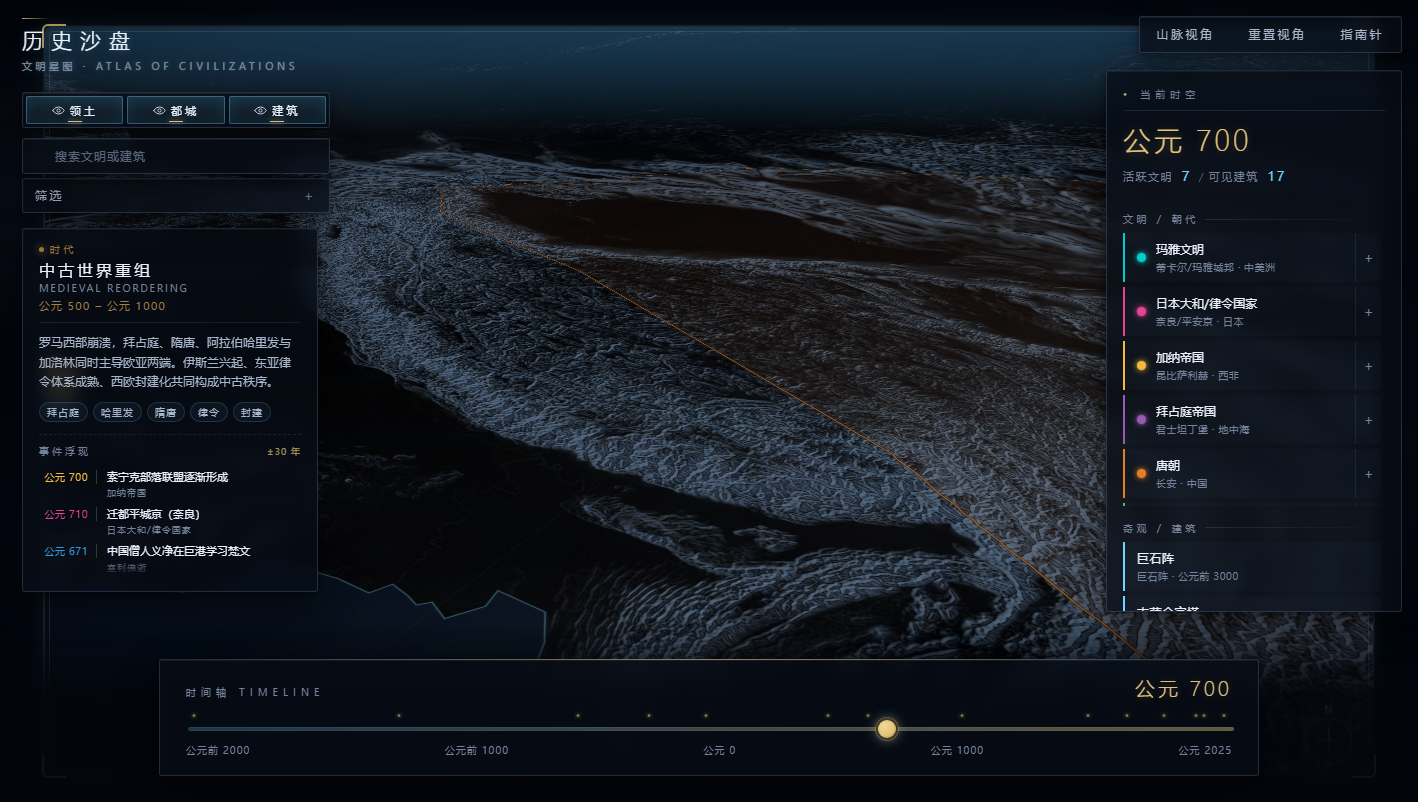
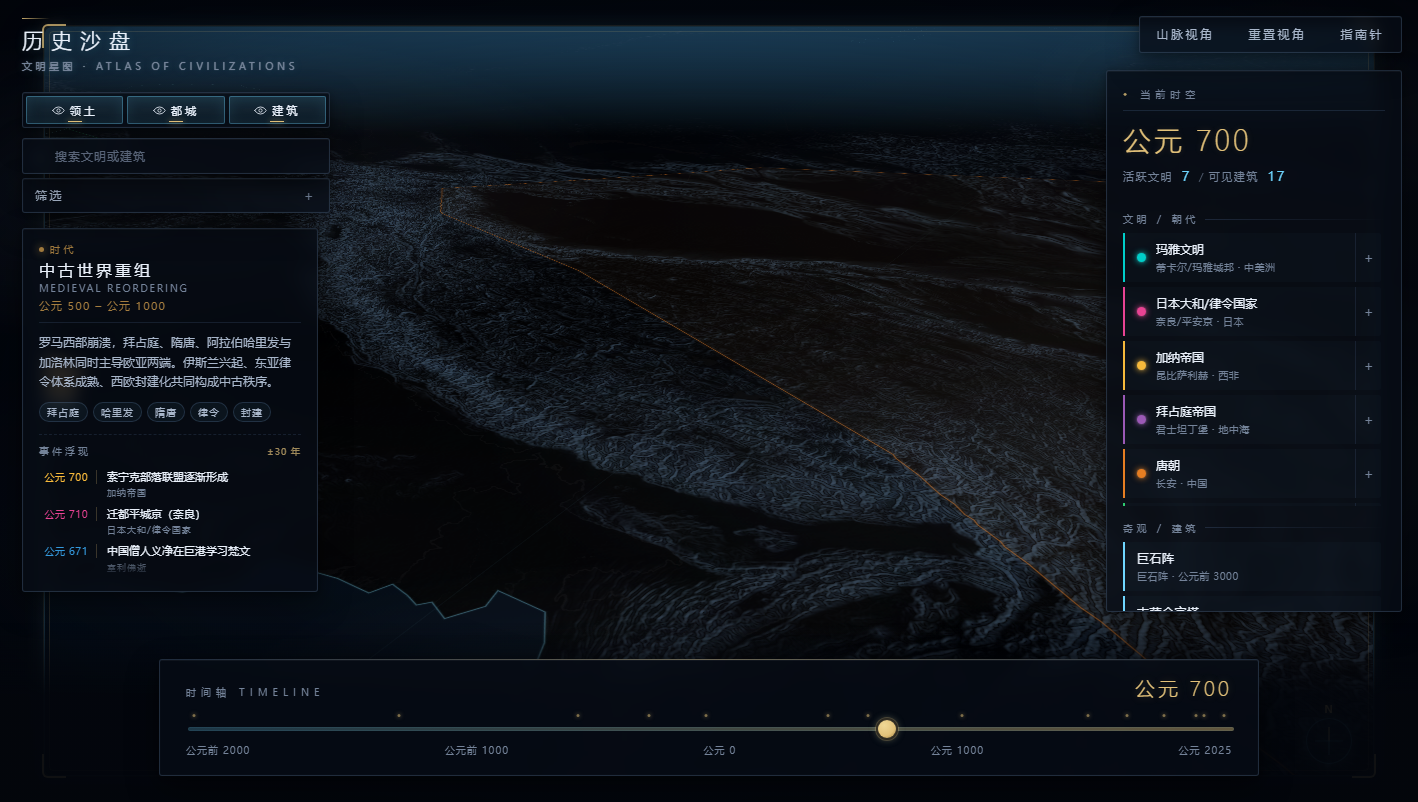
style(map): reduce visual noise for F1 pass

Changed region(s): [[0.2172, 0.1559, 0.8378, 0.8416], [0.8999, 0.7793, 0.9309, 0.8105]]

diff --git a/src/map/mapStyle.js b/src/map/mapStyle.js
@@ -313,25 +313,25 @@ export const THEME_PRESETS = {
     illuminationDirection: 315,
     // 深邃夜海：近黑藏蓝、全不透明盖掉海底浮雕——海越深越暗，让大陆从中浮起。
     // （黑色大理石夜地球：海近黑、陆稍亮的冷灰，全程冷调，靠明度差分离而非换色。）
-    ocean: '#050d18',
+    ocean: '#030a13',
     oceanMaskOpacity: 1,
     // 陆地不另铺色：保持冷调basemap本身，靠"陆比海亮 + 浮雕 + 发光海岸"刻清晰。
     landFillOpacity: 0,
     // 月光夜景浮雕：随 zoom 渐强的真实地势（世界视角已有体积感，区域视角山脉清晰）。
     // 强度对标 atlas，但走冷调，营造"地球夜景被冷月光斜照"的游戏级体积感。
-    hillshadeExaggeration: ['interpolate', ['linear'], ['zoom'], 2, 0.45, 4, 0.85, 6, 1.1],
+    hillshadeExaggeration: ['interpolate', ['linear'], ['zoom'], 2, 0.35, 4, 0.62, 6, 0.82],
     hillshade: {
       // 深蓝阴影 + 冷月光高光（青白）+ 冷青墨重音：让山脊一侧受光、一侧没入深蓝
-      shadow: 'rgba(1, 5, 14, 0.72)',
-      highlight: 'rgba(168, 205, 240, 0.58)',
-      accent: 'rgba(70, 110, 150, 0.42)',
+      shadow: 'rgba(2, 8, 18, 0.56)',
+      highlight: 'rgba(148, 190, 230, 0.42)',
+      accent: 'rgba(55, 95, 135, 0.30)',
     },
     // 第二层副光 hillshade（东南向、低强度冷调）：柔化硬阴影，增加多向体积层次
     hillshadeFill: {
-      exaggeration: ['interpolate', ['linear'], ['zoom'], 2, 0.3, 4, 0.5, 6, 0.65],
-      shadow: 'rgba(2, 10, 24, 0.26)',
-      highlight: 'rgba(190, 220, 250, 0.18)',
-      accent: 'rgba(60, 95, 135, 0.16)',
+      exaggeration: ['interpolate', ['linear'], ['zoom'], 2, 0.22, 4, 0.35, 6, 0.48],
+      shadow: 'rgba(2, 10, 24, 0.18)',
+      highlight: 'rgba(180, 210, 245, 0.12)',
+      accent: 'rgba(55, 85, 125, 0.10)',
     },
     sky: {
       // 深空基调 + 地平线冷青大气辉光（俯仰时露出"地球边缘辉光"）
@@ -346,16 +346,15 @@ export const THEME_PRESETS = {
       // 星图风发光轮廓：去掉填充色块（fill 仅作隐形点击域 + 极淡发光薄膜，地形透出），
       // 文明＝明亮发光边界（实线清亮边 + 向内淡入的霓虹辉光晕）。多文明并存时靠收窄的
       // 辉光 + 高对比清亮边分离，不再糊成色块。详见 applyBoundaryPaint dark 分支。
-      // 「默认低调·聚焦高亮」：平时所有国家只留一条清亮细边 + 极弱内晕 + 几乎不上色，
-      // 避免多国并存时宽发光带互相晕染串色；hover / 选中由专属图层让那一国亮色+填充浮起。
-      glowOpacityRefined: 0.18,
-      glowOpacityPlain: 0.1,
-      lineOpacityRefined: 0.85,
-      lineOpacityPlain: 0.45,
+      // F1 去荧光：默认只留一条细窄清亮边 + 收紧内晕，多国并存时不串色；
+      // hover / 选中由专属图层把那一国亮色+填充浮起。
+      glowOpacityRefined: 0.075,
+      glowOpacityPlain: 0.035,
+      lineOpacityRefined: 0.56,
+      lineOpacityPlain: 0.24,
       lineDash: [1, 0],
-      // 默认填充压到几乎隐形（只留一丝区域感），聚焦时再由 hover/selected 填充层补足。
-      fillOpacityRefined: 0.05,
-      fillOpacityPlain: 0.035,
+      fillOpacityRefined: 0.032,
+      fillOpacityPlain: 0.018,
     },
   },
   atlas: {
@@ -430,14 +429,13 @@ export function applyBoundaryPaint(map, themeKey) {
       map.setPaintProperty('dynasty-territory-glow', 'line-width', ['case', isRefinedExpr, 5, 3]);
       map.setPaintProperty('dynasty-territory-glow', 'line-blur', 5);
     } else {
-      // dark 星图风：默认只留一道收窄的内晕（读作"领土点亮"的细边光），不再是宽发光带，
-      // 这样多国并存时不会互相晕染串色。真正的"亮起"交给 hover / selected 专属图层。
+      // F1 去荧光：收紧晕宽和 blur，多国并存时各文明边界不再互染成"开发图层荧光带"。
       map.setPaintProperty('dynasty-territory-glow', 'line-color', ['get', 'color']);
       map.setPaintProperty('dynasty-territory-glow', 'line-width', ['case', isRefinedExpr,
-        ['interpolate', ['linear'], ['zoom'], 2, 2, 5, 4.5],
-        ['interpolate', ['linear'], ['zoom'], 2, 1.3, 5, 2.6],
+        ['interpolate', ['linear'], ['zoom'], 2, 1.1, 5, 2.3],
+        ['interpolate', ['linear'], ['zoom'], 2, 0.6, 5, 1.2],
       ]);
-      map.setPaintProperty('dynasty-territory-glow', 'line-blur', 4);
+      map.setPaintProperty('dynasty-territory-glow', 'line-blur', 2.0);
     }
     map.setPaintProperty('dynasty-territory-glow', 'line-opacity', [
       'case', isRefinedExpr, preset.boundary.glowOpacityRefined, preset.boundary.glowOpacityPlain,
@@ -451,12 +449,12 @@ export function applyBoundaryPaint(map, themeKey) {
       map.setPaintProperty('dynasty-territory-casing', 'line-opacity', 0);
     } else {
       map.setPaintProperty('dynasty-territory-casing', 'line-color', '#03070e');
-      map.setPaintProperty('dynasty-territory-casing', 'line-blur', 0.4);
+      map.setPaintProperty('dynasty-territory-casing', 'line-blur', 0.3);
       map.setPaintProperty('dynasty-territory-casing', 'line-width', ['case', isRefinedExpr,
-        ['interpolate', ['linear'], ['zoom'], 2, 1.6, 5, 3.0],
-        ['interpolate', ['linear'], ['zoom'], 2, 1.1, 5, 2.0],
+        ['interpolate', ['linear'], ['zoom'], 2, 1.0, 5, 1.8],
+        ['interpolate', ['linear'], ['zoom'], 2, 0.6, 5, 1.1],
       ]);
-      map.setPaintProperty('dynasty-territory-casing', 'line-opacity', ['case', isRefinedExpr, 0.7, 0.45]);
+      map.setPaintProperty('dynasty-territory-casing', 'line-opacity', ['case', isRefinedExpr, 0.28, 0.16]);
     }
   }
 
@@ -469,12 +467,12 @@ export function applyBoundaryPaint(map, themeKey) {
         'case', isRefinedExpr, 1.6, 1.0,
       ]);
     } else {
-      // dark 星图风：清亮亮核线（像星座连线），细锐高对比，是版图主读法；随 zoom 加粗。
+      // F1 去荧光：保持星图风细亮边，但收窄核线宽度避免多国串色。
       map.setPaintProperty('dynasty-territory-line', 'line-color', ['get', 'color']);
       map.setPaintProperty('dynasty-territory-line', 'line-blur', 0.25);
       map.setPaintProperty('dynasty-territory-line', 'line-width', ['case', isRefinedExpr,
-        ['interpolate', ['linear'], ['zoom'], 2, 1.0, 5, 2.2],
-        ['interpolate', ['linear'], ['zoom'], 2, 0.6, 5, 1.3],
+        ['interpolate', ['linear'], ['zoom'], 2, 0.65, 5, 1.5],
+        ['interpolate', ['linear'], ['zoom'], 2, 0.4, 5, 0.8],
       ]);
     }
     map.setPaintProperty('dynasty-territory-line', 'line-opacity', [
@@ -491,10 +489,10 @@ export function applyBoundaryPaint(map, themeKey) {
     map.setPaintProperty('dynasty-capital-core', 'circle-stroke-width', isAtlas ? 1.2 : 0.7);
   }
   if (map.getLayer('dynasty-capital-glow')) {
-    // dark：暖金 bloom，像点亮的城市灯火；atlas：朱砂淡晕，几乎不发光
+    // dark：暖金 bloom 收紧 blur，读作精准城市灯火而非模糊光斑
     map.setPaintProperty('dynasty-capital-glow', 'circle-color', isAtlas ? '#b3201b' : '#ffcf7a');
-    map.setPaintProperty('dynasty-capital-glow', 'circle-opacity', isAtlas ? 0.18 : 0.3);
-    map.setPaintProperty('dynasty-capital-glow', 'circle-blur', isAtlas ? 0.3 : 1.3);
+    map.setPaintProperty('dynasty-capital-glow', 'circle-opacity', isAtlas ? 0.18 : 0.22);
+    map.setPaintProperty('dynasty-capital-glow', 'circle-blur', isAtlas ? 0.3 : 0.9);
   }
   if (map.getLayer('dynasty-capital-label')) {
     // 都城名标注仅深色显示（atlas 冻结隐藏）——沿用 graticule 的 opacity=0 手法，

diff --git a/src/components/MapScene.jsx b/src/components/MapScene.jsx
@@ -152,26 +152,26 @@ function applyBoundaryFocusPaint(map, theme, selectedId, hoveredId, compareIds) 
   if (map.getLayer('dynasty-territory-fill')) {
     map.setPaintProperty('dynasty-territory-fill', 'fill-opacity', boundaryOpacityExpression({
       focusIds,
-      refined: atlas ? 0.08 : 0.12,
-      plain: atlas ? 0.04 : 0.06,
-      mutedRefined: atlas ? 0.016 : 0.018,
+      refined: atlas ? 0.08 : 0.10,
+      plain: atlas ? 0.04 : 0.042,
+      mutedRefined: atlas ? 0.016 : 0.014,
       mutedPlain: atlas ? 0.01 : 0.01,
     }));
   }
   if (map.getLayer('dynasty-territory-glow')) {
     map.setPaintProperty('dynasty-territory-glow', 'line-opacity', boundaryOpacityExpression({
       focusIds,
-      refined: atlas ? 0.34 : 0.52,
-      plain: atlas ? 0.16 : 0.24,
-      mutedRefined: atlas ? 0.035 : 0.055,
-      mutedPlain: atlas ? 0.02 : 0.025,
+      refined: atlas ? 0.34 : 0.30,
+      plain: atlas ? 0.16 : 0.13,
+      mutedRefined: atlas ? 0.035 : 0.032,
+      mutedPlain: atlas ? 0.02 : 0.018,
     }));
   }
   if (map.getLayer('dynasty-territory-casing')) {
     map.setPaintProperty('dynasty-territory-casing', 'line-opacity', boundaryOpacityExpression({
       focusIds,
-      refined: atlas ? 0 : 0.72,
-      plain: atlas ? 0 : 0.46,
+      refined: atlas ? 0 : 0.28,
+      plain: atlas ? 0 : 0.18,
       mutedRefined: 0,
       mutedPlain: 0,
     }));
@@ -179,17 +179,17 @@ function applyBoundaryFocusPaint(map, theme, selectedId, hoveredId, compareIds) 
   if (map.getLayer('dynasty-territory-line')) {
     map.setPaintProperty('dynasty-territory-line', 'line-opacity', boundaryOpacityExpression({
       focusIds,
-      refined: atlas ? 0.94 : 0.86,
-      plain: atlas ? 0.55 : 0.42,
-      mutedRefined: atlas ? 0.11 : 0.12,
-      mutedPlain: atlas ? 0.055 : 0.055,
+      refined: atlas ? 0.94 : 0.62,
+      plain: atlas ? 0.55 : 0.28,
+      mutedRefined: atlas ? 0.11 : 0.075,
+      mutedPlain: atlas ? 0.055 : 0.034,
     }));
   }
   if (map.getLayer('dynasty-capital-glow')) {
-    map.setPaintProperty('dynasty-capital-glow', 'circle-opacity', focusCaseExpression(focusIds, atlas ? 0.2 : 0.34, atlas ? 0.035 : 0.045));
+    map.setPaintProperty('dynasty-capital-glow', 'circle-opacity', focusCaseExpression(focusIds, atlas ? 0.2 : 0.28, atlas ? 0.035 : 0.04));
   }
   if (map.getLayer('dynasty-capital-core')) {
-    map.setPaintProperty('dynasty-capital-core', 'circle-opacity', focusCaseExpression(focusIds, atlas ? 0.92 : 0.94, atlas ? 0.16 : 0.14));
+    map.setPaintProperty('dynasty-capital-core', 'circle-opacity', focusCaseExpression(focusIds, atlas ? 0.92 : 0.92, atlas ? 0.16 : 0.13));
   }
   if (map.getLayer('dynasty-capital-label')) {
     map.setPaintProperty('dynasty-capital-label', 'text-opacity', focusCaseExpression(focusIds, textBase, atlas ? 0 : 0.08));
@@ -348,16 +348,16 @@ const MapScene = forwardRef(function MapScene({
       map.setPaintProperty('dynasty-territory-fill', 'fill-opacity', 0.018);
     }
     if (map.getLayer('dynasty-territory-glow')) {
-      map.setPaintProperty('dynasty-territory-glow', 'line-opacity', 0.10);
-      map.setPaintProperty('dynasty-territory-glow', 'line-width', 2.0);
-      map.setPaintProperty('dynasty-territory-glow', 'line-blur', 3.2);
+      map.setPaintProperty('dynasty-territory-glow', 'line-opacity', 0.07);
+      map.setPaintProperty('dynasty-territory-glow', 'line-width', 1.6);
+      map.setPaintProperty('dynasty-territory-glow', 'line-blur', 2.4);
     }
     if (map.getLayer('dynasty-territory-casing')) {
-      map.setPaintProperty('dynasty-territory-casing', 'line-opacity', 0.18);
+      map.setPaintProperty('dynasty-territory-casing', 'line-opacity', 0.13);
     }
     if (map.getLayer('dynasty-territory-line')) {
-      map.setPaintProperty('dynasty-territory-line', 'line-opacity', 0.24);
-      map.setPaintProperty('dynasty-territory-line', 'line-width', 0.9);
+      map.setPaintProperty('dynasty-territory-line', 'line-opacity', 0.18);
+      map.setPaintProperty('dynasty-territory-line', 'line-width', 0.75);
     }
     if (map.getLayer('dynasty-capital-glow')) {
       map.setPaintProperty('dynasty-capital-glow', 'circle-opacity', 0.08);

diff --git a/src/styles.css b/src/styles.css
@@ -12,9 +12,9 @@
   --gold: #e3c27a;
   --gold-soft: rgba(227, 194, 122, 0.16);
   --hud-shadow:
-    0 14px 38px rgba(0, 0, 0, 0.48),
-    0 3px 10px rgba(0, 0, 0, 0.36),
-    inset 0 1px 0 rgba(255, 255, 255, 0.055),
+    0 12px 32px rgba(0, 0, 0, 0.42),
+    0 2px 8px rgba(0, 0, 0, 0.30),
+    inset 0 1px 0 rgba(255, 255, 255, 0.04),
     inset 0 0 0 1px rgba(255, 255, 255, 0.012);
   /* 统一动效：入场/过渡共用同一条"收尾减速"曲线与一组时长，手感一致 */
   --ease-out: cubic-bezier(0.2, 0.7, 0.2, 1);
@@ -619,7 +619,7 @@ body[data-theme="dark"] .map-frame::before {
   right: 14px;
   height: 1px;
   background: linear-gradient(90deg, transparent, var(--gold), transparent);
-  opacity: 0.55;
+  opacity: 0.38;
 }
 
 .info-status-bar {
@@ -651,7 +651,7 @@ body[data-theme="dark"] .map-frame::before {
   color: var(--gold);
   letter-spacing: 3px;
   margin-bottom: 8px;
-  text-shadow: 0 0 10px rgba(227, 194, 122, 0.32);
+  text-shadow: 0 0 6px rgba(227, 194, 122, 0.22);
   font-weight: 300;
 }
 
@@ -855,7 +855,7 @@ body[data-theme="dark"] .map-frame::before {
   right: 24px;
   height: 1px;
   background: linear-gradient(90deg, transparent, var(--gold), transparent);
-  opacity: 0.55;
+  opacity: 0.38;
 }
 
 .timeline-header {
@@ -896,7 +896,7 @@ input[type="range"]::-webkit-slider-thumb {
   border-radius: 50%;
   background: radial-gradient(circle at 35% 30%, #f0d896, var(--gold) 60%, #a48142 100%);
   cursor: pointer;
-  box-shadow: 0 0 12px rgba(227, 194, 122, 0.75), 0 0 0 2px rgba(3, 6, 12, 0.85), 0 0 0 3px rgba(227, 194, 122, 0.28), 0 0 18px 4px rgba(111, 214, 255, 0.12);
+  box-shadow: 0 0 8px rgba(227, 194, 122, 0.55), 0 0 0 2px rgba(3, 6, 12, 0.85), 0 0 0 3px rgba(227, 194, 122, 0.22), 0 0 10px 3px rgba(111, 214, 255, 0.08);
   border: 0;
   transition: transform 0.15s, box-shadow 0.15s;
 }

diff --git a/WORK_LOG.md b/WORK_LOG.md
@@ -879,3 +879,51 @@ Verification:
 - `npm run check` passed after F0 workflow files were added.
 - Validation still reports 43 dynasties, 91 boundaries, 30 landmarks, and 14 OK GLB assets.
 - Vite build passed with the existing large chunk warning.
+
+## 2026-06-04 F1 visual foundation pass 1
+
+Claude delegation:
+
+- First Claude call returned only a plan, which was rejected as an invalid batch because it did not edit files and did not address the real F1 map problems.
+- Second Claude call used `.claude-runs/f1-visual-foundation-pass-execute-prompt.md` and made a bounded implementation pass.
+
+Implementation:
+
+- `src/map/mapStyle.js`
+  - dark ocean deepened.
+  - hillshade exaggeration and highlight/shadow opacity reduced to lower terrain white-noise.
+  - boundary glow width, blur, opacity, casing, and line width reduced.
+  - capital glow tightened.
+- `src/components/MapScene.jsx`
+  - focus paint opacity recalibrated for the reduced boundary baseline.
+  - Codex further reduced default/focused non-selected boundary intensity after visual review.
+- `src/styles.css`
+  - HUD shadow, gold accent lines, year glow, and slider glow toned down.
+
+Verification:
+
+- `npm run check` passed.
+- `VISUAL_FOUNDATION_URL=http://127.0.0.1:4174/ npm run audit:visual-foundation` passed:
+  - failures: `[]`.
+  - bad responses: `0`.
+  - page exceptions: `0`.
+  - console errors: `0`.
+  - non-canceled failures: `0`.
+- Reviewed updated screenshots:
+  - `docs/visual-qa/foundation-himalaya-relief.png`
+  - `docs/visual-qa/foundation-open-ocean-flatness.png`
+  - `docs/visual-qa/foundation-mediterranean-boundary-readability.png`
+  - `docs/visual-qa/foundation-central-america-readability.png`
+
+Visual result:
+
+- Ocean is cleaner, darker, and flatter.
+- Mediterranean and Central America boundary overlays are calmer and less fluorescent while still readable.
+- HUD glow is less workbench-like.
+- F1 Gate is not passed yet: mountain relief still reads noisy in places and distant terrain/tile seam artifacts remain visible.
+
+Next:
+
+- Commit and push F1 pass 1.
+- Optionally deploy the improvement after user-facing decision or after one more F1 terrain-seam pass.
+- Next F1 pass should target terrain/tile seam artifacts and mountain relief texture, not boundary opacity.

diff --git a/docs/visual-qa/FOUNDATION_AUDIT_2026-06-03.md b/docs/visual-qa/FOUNDATION_AUDIT_2026-06-03.md
@@ -146,3 +146,43 @@ npm run audit:visual-foundation
 - `himalaya-relief` 仍有强地形起伏，但能看到明显地形/瓦片切片感，尤其远景暗色楔形区域不应作为最终视觉接受。
 - `mediterranean-boundary-readability` 暴露出边界线层级偏荧光、偏开发调试图层的问题，后续 F1 必须先修这个层级，再继续批量精修边界。
 - 当前版本可作为线上里程碑和审计起点，不是最终完整版。
+
+## F1 pass 1 · 2026-06-04
+
+执行方式：
+
+- Codex 先落地 Final-Version Gate 工作流。
+- Claude 按 `.claude-runs/f1-visual-foundation-pass-execute-prompt.md` 做受控视觉修改。
+- Codex 复核 diff 后继续压低默认非聚焦边界层级。
+
+本轮修改：
+
+- 降低 dark 主题 ocean 色值，水面更深。
+- 降低 hillshade exaggeration、shadow、highlight、accent 强度，减少 relief 白噪声。
+- 收紧 boundary glow 的宽度、blur 和 opacity。
+- 降低 boundary casing 和默认 line opacity，让多文明并存时更像地图标注。
+- 降低 HUD 金色光晕和面板阴影。
+
+验证：
+
+```bash
+npm run check
+VISUAL_FOUNDATION_URL=http://127.0.0.1:4174/ npm run audit:visual-foundation
+```
+
+结果：
+
+- `npm run check`: passed。
+- `audit:visual-foundation`: failures `[]`。
+- bad responses: `0`。
+- page exceptions: `0`。
+- console errors: `0`。
+- non-canceled failures: `0`。
+
+人工结论：
+
+- `open-ocean-flatness` 海面更干净、更暗，基本保持平坦。
+- `mediterranean-boundary-readability` 边界荧光感降低，仍可读。
+- `central-america-readability` 玛雅边界更克制，不再过度抢海岸线。
+- `himalaya-relief` 山脉仍有起伏，但 relief 仍偏噪，远景地形/瓦片接缝仍是 F1 后续问题。
+- 本轮是 F1 进展，不是 F1 Gate 通过。

diff --git a/docs/CURRENT_PHASE.md b/docs/CURRENT_PHASE.md
@@ -2,6 +2,8 @@
 
 Updated: 2026-06-04
 
+Status: F1 in progress. Pass 1 has improved ocean/boundary/HUD hierarchy, but the F1 Gate is not accepted yet.
+
 ## Phase Goal
 
 Make the map feel like a polished final visual foundation before expanding boundary data or landmark models.
@@ -77,6 +79,16 @@ F1 is not accepted until all are true:
 - Civilization boundaries no longer look like fluorescent debug geometry.
 - HUD does not dominate the map and reads as a finished atlas interface.
 - Results are recorded in `WORK_LOG.md`.
+
+## Latest Pass
+
+2026-06-04 F1 pass 1:
+
+- Claude made a bounded visual pass, then Codex tightened default boundary opacity further.
+- `npm run check` passed.
+- `VISUAL_FOUNDATION_URL=http://127.0.0.1:4174/ npm run audit:visual-foundation` passed.
+- Foundation screenshots show cleaner ocean and calmer multi-civilization boundaries.
+- F1 remains open because mountain relief still reads noisy in places and distant terrain/tile seam artifacts remain visible.
 
 ## Next Phase Entry Rule
 
